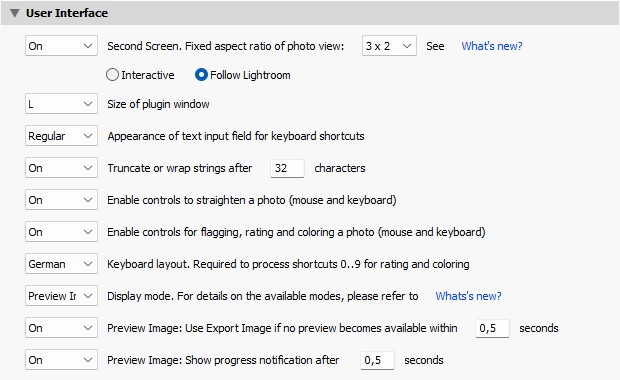
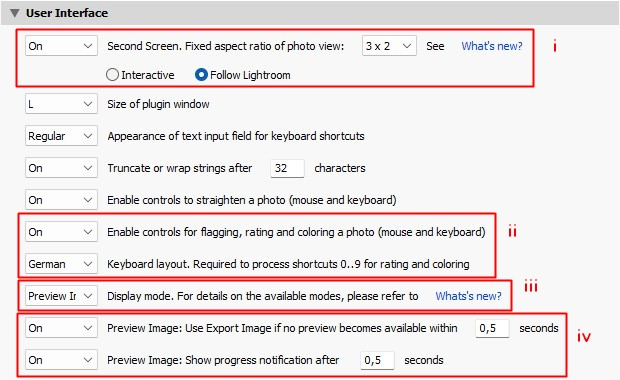
Update V4 docs

diff --git a/docs/V4 Quick Setup Guide.md b/docs/V4 Quick Setup Guide.md
@@ -16,8 +16,13 @@ Some steps are specific to the operating system (OS) you are running. To keep th
 4. Configure plugin settings:<br>
    Select `Focus Point Viewer` from the list of installed plugins (_Library → File → Plug-in Manager_) and check the `User Interface` section:<br><img src="images/Quick%20Setup%201.jpg" alt="Second Screen 1" style="width: 600px;"/><br>
  
-   1. Second Screen mode and behavior <br> 
-   1. Controls for flagging, rating and coloring a photo<br>
-   1. Display mode<br>
-   1. Preview image performance<br>
+   1. Configure `Second Screen` mode and behavior [↗](V4%20New%20Features.md#13-configuration):<br>
+      1. Select `On` to continue working in Lightroom while the Focus Points window remains open.
+      2. Choose whether you want Focus Point Viewer to `Follow` while you're working in Lightroom or if you want to use it interactively.
+      3. Select the aspect ratio which is fixed in Second Screen mode     
+   1. Configure `Controls for flagging, rating and coloring a photo`<br>
+   These controls have been introduced to enable flagging, rating and coloring when Focus Points Viewer did not allow access to Lightroom while it was open. This is normally not required in second screen mode. You can set it to 'Off', which will make the control bar look less cluttered.  
+   1. Configure `Display mode`<br>
+
+   1. Configure `Preview image` performance settings<br>
    
